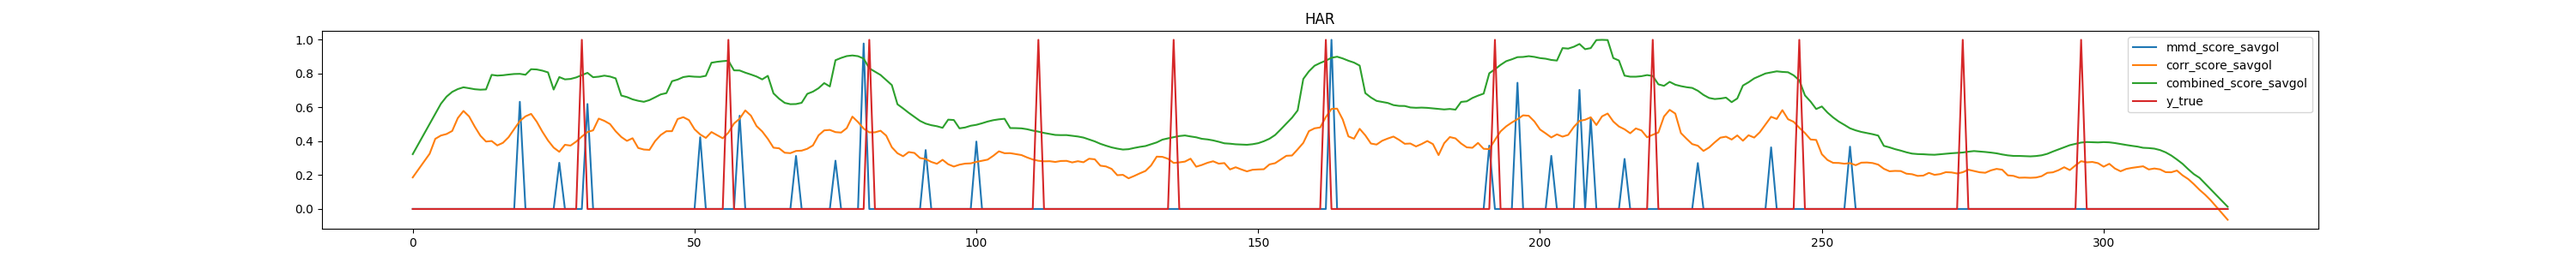
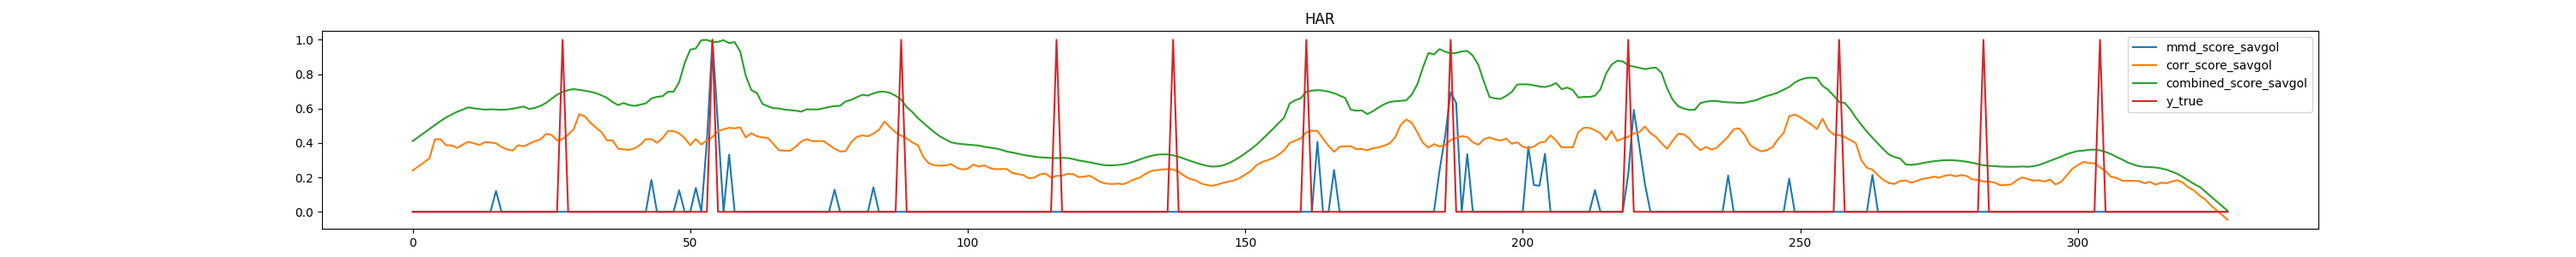
May 5th update2

diff --git a/TiVaCPD/evalutation.py b/TiVaCPD/evalutation.py
@@ -201,8 +201,25 @@ def main():
                 combined_score_savgol  = savgol_filter(np.add(abs(mmd_score_savgol), abs(corr_score_savgol)), 11,   1) 
 
                 all_scores = [mmd_score_nor, corr_score_nor, corr_score_savgol, combined_score_savgol]
+                all_scores = np.transpose(np.array(all_scores))
+
+                w_corr = True
+                if(w_corr):
+                    W = np.cov(all_scores.T)
+                    W = np.sum(W , axis = 0)
+                    print('weight W: ', W)
+                else:
+                    score_num = all_scores.shape[1]
+                    D = np.zeros((score_num,score_num))
+                    for i in range(score_num):
+                        for j in range(i+1, score_num):
+                            D[i,j] =  np.mean(abs(all_scores[:,i] - all_scores[:,j]))
+                            D[j,i] = D[i,j]
+                    W = np.sum(D, axis = 0) 
+                    print('weight D: ', W)
+                final_score = np.dot(all_scores, W) / sum(W)
             
-                metrics = ComputeMetrics(y_true, all_scores, args.margin)
+                metrics = ComputeMetrics(y_true, final_score, args.margin)
                 f1_score = np.round(metrics.f1,2)
                 f1_scores.append(f1_score)
 

diff --git a/TiVaCPD/experiments.py b/TiVaCPD/experiments.py
@@ -183,7 +183,7 @@ def main():
                 minLength = min(minLength, minLength_wav)
                 mmd_score_wave = mmd_score_wave[:minLength] 
                 corr_score_wave = corr_score_wave[:minLength] 
-                
+
             corr_score = (corr_score)[:minLength]
             mmd_score = mmd_score[:minLength] 
             combined_score = np.add(abs(mmd_score), abs(corr_score)) 
@@ -226,14 +226,12 @@ def main():
             if(args.wavelet):
                 mmd_score_wave_nor = stats.zscore(mmd_score_wave)
                 corr_score_wave_nor = stats.zscore(corr_score_wave)
-                print('here: ', corr_score_wave_nor.shape)
                 q3, q1 = np.percentile(corr_score_wave_nor, [75 ,25])
                 corr_iqr = q3 - q1
                 corr_vote = (corr_score_wave_nor < (1.5 * corr_iqr))
                 corr_score_wave_nor = corr_score_wave_nor * corr_vote.astype(int)
                 all_scores.append(mmd_score_wave_nor)
                 all_scores.append(corr_score_wave_nor)
-                print('there: ', corr_score_wave_nor.shape)
 
             
             w_corr = True
